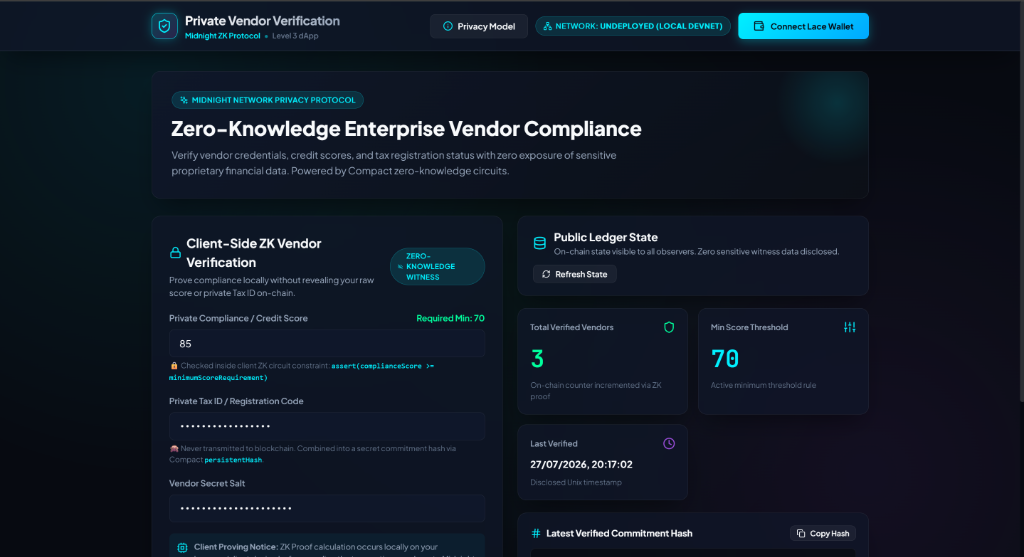
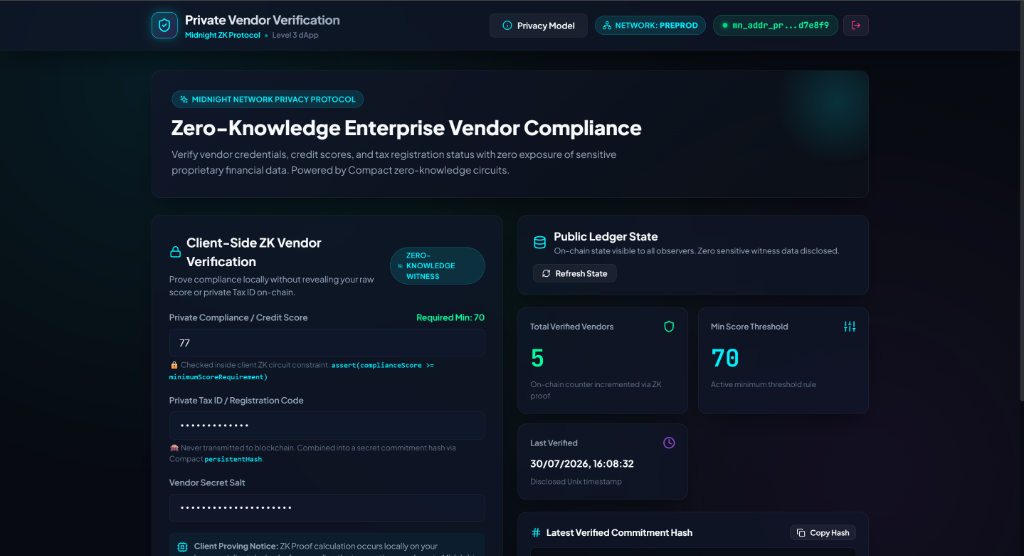
docs: update application preview and add CI checks passed screenshots

diff --git a/README.md b/README.md
@@ -155,6 +155,8 @@ Continuous Integration is configured via `.github/workflows/ci.yml`. On every `p
 4. Runs unit test suite (`npm test`)
 5. Type-checks and builds the Vite production frontend bundle (`npm run frontend:build`)
 
+![Automated CI/CD and Vercel Deployment Checks Passed](public/ci-checks-passed.png)
+
 ---
 
 ## 📋 Submission Checklists
